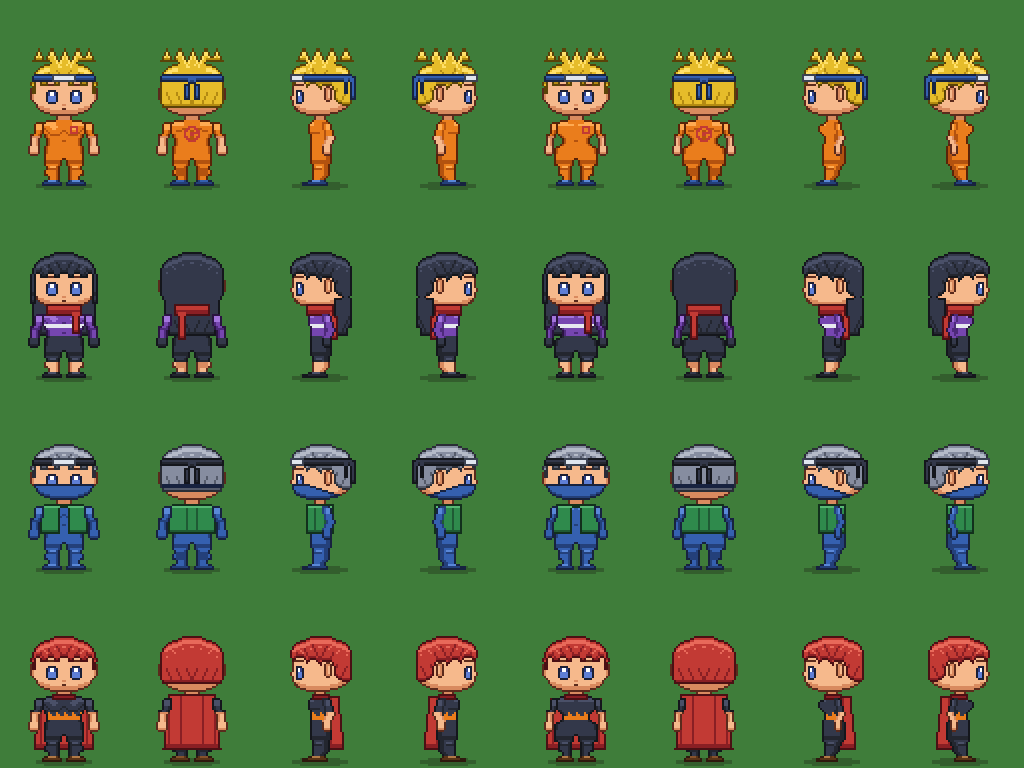
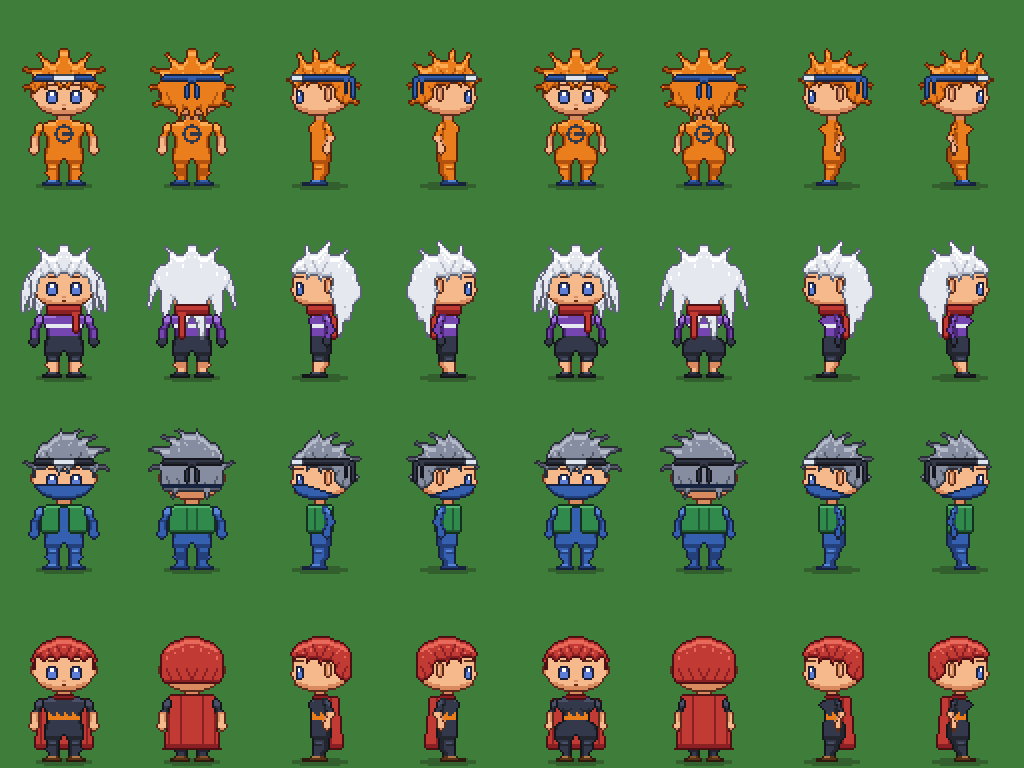
Arte: cabelos de mechas (ouriço, topete torto, juba), ferramenta de mecha e cabelo longo de lado sem quebra
Desenho próprio, inspirado em estilos de anime ninja. Bordas conferidas com o check da skill pxl-pixel-art.

Claude-Session: https://claude.ai/code/session_013vLqrS9CvqGe3bkjQv7HjM

diff --git a/arte/boneco-base.html b/arte/boneco-base.html
@@ -346,6 +346,26 @@
   const KIT = {
     HY, HEAD_HW, HEAD_SIDE, W, H,
     nova: newMask,
+    // Mecha: sai da base (x, y) na direção do ângulo (graus; -90 = para cima, 0 = para a direita), afinando de
+    // `largura` até a ponta em `comprimento` pixels. `curva` entorta a mecha (graus somados ao longo dela).
+    mecha(m, x, y, angulo, comprimento, largura, curva) {
+      const passos = comprimento * 3;
+      // A ponta termina com 2 pixels de espessura (nunca um fiapo de 1 pixel de contorno).
+      for (let i = 0; i <= Math.round(passos * 0.9); i++) {
+        const t = i / passos;
+        const a = ((angulo + (curva || 0) * t) * Math.PI) / 180;
+        const cx = x + Math.cos(a) * comprimento * t; const cy = y + Math.sin(a) * comprimento * t;
+        const r = Math.max((largura / 2) * (1 - t) ** 0.8, 1.6);
+        for (let yy = Math.floor(cy - r); yy <= Math.ceil(cy + r); yy++) for (let xx = Math.floor(cx - r); xx <= Math.ceil(cx + r); xx++) {
+          if (xx >= 0 && xx < W && yy >= 0 && yy < H && (xx - cx) ** 2 + (yy - cy) ** 2 <= r * r + 0.25) m[key(xx, yy)] = 1;
+        }
+      }
+      return m;
+    },
+    // Várias mechas: lista de [x, y, ângulo, comprimento, largura, curva].
+    mechas(m, lista) { lista.forEach((q) => this.mecha(m, ...q)); return m; },
+    // Na vista de frente e de costas, espelha cada mecha (a lista descreve só o lado direito da imagem).
+    mechasSim(m, lista) { lista.forEach(([x, y, a, c, l, cv]) => { this.mecha(m, x, y, a, c, l, cv); this.mecha(m, 63 - x, y, 180 - a, c, l, -(cv || 0)); }); return m; },
     apagar(m, y0, list) { list.forEach((r, i) => { for (let x = r[0]; x <= r[1]; x++) m[key(x, y0 + i)] = 0; }); return m; },
     linhas: rows,                                   // linhas(m, y0, [[x0, x1], ...]): uma faixa por linha
     simetrico: sym,                                 // simetrico(m, y0, [meiaLargura, ...]): frente e costas
@@ -406,11 +426,63 @@
   definirPeca({ id: 'longo', tipo: 'cabelo', modo: 'forma', camada: 'cabelo', parte: PART.cabelo, sombra: SOMBRA_CABELO,
     desenho(view, k) {
       const m = cabeloBase(view, k); const tras = k.nova();
-      if (view === 'lado') for (let y = HY + 22; y <= HY + 40; y++) k.linhas(m, y, [[39, y > HY + 36 ? 45 : 47]]);
+      if (view === 'lado') {
+        // Desce atrás da orelha sem degrau: a borda da frente fica em 39 desde a orelha e a ponta afina no fim.
+        for (let y = HY + 14; y <= HY + 40; y++) {
+          const fim = HY + 40 - y;
+          k.linhas(m, y, [[39 + (fim < 3 ? 3 - fim : 0), 47 - (fim < 4 ? 4 - fim : 0)]]);
+        }
+      }
       else if (view === 'costas') for (let y = HY + 23; y <= HY + 40; y++) k.simetrico(m, y, [y > HY + 37 ? 12 : 14]);
       else {
         for (let y = HY + 10; y <= HY + 40; y++) k.simetrico(tras, y, [y > HY + 37 ? 14 : 16]);    // por trás do corpo
         for (let y = HY + 12; y <= HY + 24; y++) { k.linhas(m, y, [[46, 48]]); k.linhas(m, y, [[15, 17]]); } // mechas
+      }
+      return { frente: m, tras };
+    } });
+  // ---- Cabelos de mechas (inspirados em estilos de anime ninja, desenho próprio). Nomes são códigos provisórios.
+  // Ouriço: curto e cheio de pontas grossas em volta de toda a cabeça, franja em pontas até a sobrancelha.
+  definirPeca({ id: 'ourico', tipo: 'cabelo', modo: 'forma', camada: 'cabelo', parte: PART.cabelo, sombra: SOMBRA_CABELO,
+    desenho(view, k) {
+      const m = cabeloBase(view, k);
+      if (view === 'lado') k.mechas(m, [[24, HY + 2, -115, 7, 6], [30, HY + 1, -95, 8, 7], [36, HY + 2, -70, 8, 7, 10], [42, HY + 5, -40, 8, 7, 10],
+        [45, HY + 11, -10, 7, 6, 15], [45, HY + 17, 20, 6, 5, 10], [20, HY + 6, 160, 5, 5, -20], [22, HY + 9, 120, 4, 4]]);
+      else if (view === 'costas') k.mechasSim(m, [[33, HY + 1, -88, 8, 7], [39, HY + 2, -60, 8, 7, 8], [44, HY + 6, -30, 8, 7, 10], [46, HY + 12, -5, 7, 6, 10],
+        [45, HY + 18, 30, 6, 5], [37, HY + 22, 80, 5, 5], [32, HY + 22, 95, 5, 5]]);
+      else k.mechasSim(m, [[33, HY + 1, -88, 8, 7], [39, HY + 2, -60, 8, 7, 8], [44, HY + 6, -30, 8, 7, 10], [46, HY + 12, -5, 6, 6, 10],
+        [34, HY + 7, 95, 5, 5], [40, HY + 7, 80, 5, 5]]);
+      return { frente: m };
+    } });
+  // Topete torto: alto e jogado para um lado, como se o vento empurrasse; uma mecha cai sobre a testa.
+  definirPeca({ id: 'topete_torto', tipo: 'cabelo', modo: 'forma', camada: 'cabelo', parte: PART.cabelo, sombra: SOMBRA_CABELO,
+    desenho(view, k) {
+      const m = cabeloBase(view, k);
+      const dir = view === 'costas' ? -1 : 1;                          // de costas o lado inverte
+      const L = (x, y, a, c, l, cv) => [32 + dir * (x - 32), y, dir === 1 ? a : 180 - a, c, l, dir === 1 ? cv : -(cv || 0)];
+      if (view === 'lado') k.mechas(m, [[26, HY + 2, -80, 11, 8, 25], [32, HY + 1, -60, 12, 8, 20], [38, HY + 3, -40, 11, 8, 15], [43, HY + 7, -15, 9, 7, 10],
+        [45, HY + 14, 15, 6, 5], [21, HY + 6, 140, 6, 5, -10]]);
+      else {
+        k.mechas(m, [L(20, HY + 5, -110, 7, 7, 30), L(25, HY + 1, -80, 11, 8, 25), L(31, HY, -62, 13, 9, 20), L(37, HY + 1, -45, 13, 9, 15),
+          L(43, HY + 4, -25, 11, 8, 10), L(46, HY + 10, -5, 8, 6, 10), L(17, HY + 10, 200, 5, 5)]);
+        if (view === 'frente') k.mechas(m, [L(38, HY + 7, 125, 7, 5, 10), L(31, HY + 8, 110, 5, 4)]);   // mecha sobre a testa
+        else k.mechas(m, [L(40, HY + 20, 70, 6, 6), L(26, HY + 20, 100, 6, 6)]);
+      }
+      return { frente: m };
+    } });
+  // Juba: volume revolto em cima e uma juba longa e grossa descendo pelas costas até a cintura, com pontas soltas.
+  definirPeca({ id: 'juba', tipo: 'cabelo', modo: 'forma', camada: 'cabelo', parte: PART.cabelo, sombra: SOMBRA_CABELO,
+    desenho(view, k) {
+      const m = cabeloBase(view, k); const tras = k.nova();
+      if (view === 'lado') {
+        k.mechas(m, [[26, HY + 1, -100, 6, 6], [33, HY, -75, 7, 7, 10], [40, HY + 3, -45, 7, 7]]);
+        // A juba sai da nuca e desce pelas costas em mechas grossas, cada uma terminando em ponta.
+        k.mechas(m, [[44, HY + 8, 50, 14, 11, 25], [44, HY + 14, 70, 20, 11, 15], [41, HY + 18, 82, 24, 10, 8], [46, HY + 12, 30, 12, 8, 40]]);
+      } else if (view === 'costas') {
+        k.mechasSim(m, [[33, HY + 1, -88, 6, 6], [40, HY + 2, -55, 7, 7]]);
+        k.mechasSim(m, [[34, HY + 14, 88, 30, 13, -4], [42, HY + 12, 75, 27, 11, 10], [46, HY + 9, 50, 20, 9, 20]]);
+      } else {
+        k.mechasSim(m, [[33, HY + 1, -88, 6, 6], [40, HY + 2, -55, 7, 7], [46, HY + 11, 85, 18, 6, -5]]);   // mechas ao lado do rosto
+        k.mechasSim(tras, [[38, HY + 10, 60, 24, 14, 15], [44, HY + 10, 40, 22, 11, 30]]);                  // juba atrás do corpo
       }
       return { frente: m, tras };
     } });

diff --git a/arte/boneco-base/boneco-base.js b/arte/boneco-base/boneco-base.js
@@ -286,6 +286,26 @@
   const KIT = {
     HY, HEAD_HW, HEAD_SIDE, W, H,
     nova: newMask,
+    // Mecha: sai da base (x, y) na direção do ângulo (graus; -90 = para cima, 0 = para a direita), afinando de
+    // `largura` até a ponta em `comprimento` pixels. `curva` entorta a mecha (graus somados ao longo dela).
+    mecha(m, x, y, angulo, comprimento, largura, curva) {
+      const passos = comprimento * 3;
+      // A ponta termina com 2 pixels de espessura (nunca um fiapo de 1 pixel de contorno).
+      for (let i = 0; i <= Math.round(passos * 0.9); i++) {
+        const t = i / passos;
+        const a = ((angulo + (curva || 0) * t) * Math.PI) / 180;
+        const cx = x + Math.cos(a) * comprimento * t; const cy = y + Math.sin(a) * comprimento * t;
+        const r = Math.max((largura / 2) * (1 - t) ** 0.8, 1.6);
+        for (let yy = Math.floor(cy - r); yy <= Math.ceil(cy + r); yy++) for (let xx = Math.floor(cx - r); xx <= Math.ceil(cx + r); xx++) {
+          if (xx >= 0 && xx < W && yy >= 0 && yy < H && (xx - cx) ** 2 + (yy - cy) ** 2 <= r * r + 0.25) m[key(xx, yy)] = 1;
+        }
+      }
+      return m;
+    },
+    // Várias mechas: lista de [x, y, ângulo, comprimento, largura, curva].
+    mechas(m, lista) { lista.forEach((q) => this.mecha(m, ...q)); return m; },
+    // Na vista de frente e de costas, espelha cada mecha (a lista descreve só o lado direito da imagem).
+    mechasSim(m, lista) { lista.forEach(([x, y, a, c, l, cv]) => { this.mecha(m, x, y, a, c, l, cv); this.mecha(m, 63 - x, y, 180 - a, c, l, -(cv || 0)); }); return m; },
     apagar(m, y0, list) { list.forEach((r, i) => { for (let x = r[0]; x <= r[1]; x++) m[key(x, y0 + i)] = 0; }); return m; },
     linhas: rows,                                   // linhas(m, y0, [[x0, x1], ...]): uma faixa por linha
     simetrico: sym,                                 // simetrico(m, y0, [meiaLargura, ...]): frente e costas
@@ -346,11 +366,63 @@
   definirPeca({ id: 'longo', tipo: 'cabelo', modo: 'forma', camada: 'cabelo', parte: PART.cabelo, sombra: SOMBRA_CABELO,
     desenho(view, k) {
       const m = cabeloBase(view, k); const tras = k.nova();
-      if (view === 'lado') for (let y = HY + 22; y <= HY + 40; y++) k.linhas(m, y, [[39, y > HY + 36 ? 45 : 47]]);
+      if (view === 'lado') {
+        // Desce atrás da orelha sem degrau: a borda da frente fica em 39 desde a orelha e a ponta afina no fim.
+        for (let y = HY + 14; y <= HY + 40; y++) {
+          const fim = HY + 40 - y;
+          k.linhas(m, y, [[39 + (fim < 3 ? 3 - fim : 0), 47 - (fim < 4 ? 4 - fim : 0)]]);
+        }
+      }
       else if (view === 'costas') for (let y = HY + 23; y <= HY + 40; y++) k.simetrico(m, y, [y > HY + 37 ? 12 : 14]);
       else {
         for (let y = HY + 10; y <= HY + 40; y++) k.simetrico(tras, y, [y > HY + 37 ? 14 : 16]);    // por trás do corpo
         for (let y = HY + 12; y <= HY + 24; y++) { k.linhas(m, y, [[46, 48]]); k.linhas(m, y, [[15, 17]]); } // mechas
+      }
+      return { frente: m, tras };
+    } });
+  // ---- Cabelos de mechas (inspirados em estilos de anime ninja, desenho próprio). Nomes são códigos provisórios.
+  // Ouriço: curto e cheio de pontas grossas em volta de toda a cabeça, franja em pontas até a sobrancelha.
+  definirPeca({ id: 'ourico', tipo: 'cabelo', modo: 'forma', camada: 'cabelo', parte: PART.cabelo, sombra: SOMBRA_CABELO,
+    desenho(view, k) {
+      const m = cabeloBase(view, k);
+      if (view === 'lado') k.mechas(m, [[24, HY + 2, -115, 7, 6], [30, HY + 1, -95, 8, 7], [36, HY + 2, -70, 8, 7, 10], [42, HY + 5, -40, 8, 7, 10],
+        [45, HY + 11, -10, 7, 6, 15], [45, HY + 17, 20, 6, 5, 10], [20, HY + 6, 160, 5, 5, -20], [22, HY + 9, 120, 4, 4]]);
+      else if (view === 'costas') k.mechasSim(m, [[33, HY + 1, -88, 8, 7], [39, HY + 2, -60, 8, 7, 8], [44, HY + 6, -30, 8, 7, 10], [46, HY + 12, -5, 7, 6, 10],
+        [45, HY + 18, 30, 6, 5], [37, HY + 22, 80, 5, 5], [32, HY + 22, 95, 5, 5]]);
+      else k.mechasSim(m, [[33, HY + 1, -88, 8, 7], [39, HY + 2, -60, 8, 7, 8], [44, HY + 6, -30, 8, 7, 10], [46, HY + 12, -5, 6, 6, 10],
+        [34, HY + 7, 95, 5, 5], [40, HY + 7, 80, 5, 5]]);
+      return { frente: m };
+    } });
+  // Topete torto: alto e jogado para um lado, como se o vento empurrasse; uma mecha cai sobre a testa.
+  definirPeca({ id: 'topete_torto', tipo: 'cabelo', modo: 'forma', camada: 'cabelo', parte: PART.cabelo, sombra: SOMBRA_CABELO,
+    desenho(view, k) {
+      const m = cabeloBase(view, k);
+      const dir = view === 'costas' ? -1 : 1;                          // de costas o lado inverte
+      const L = (x, y, a, c, l, cv) => [32 + dir * (x - 32), y, dir === 1 ? a : 180 - a, c, l, dir === 1 ? cv : -(cv || 0)];
+      if (view === 'lado') k.mechas(m, [[26, HY + 2, -80, 11, 8, 25], [32, HY + 1, -60, 12, 8, 20], [38, HY + 3, -40, 11, 8, 15], [43, HY + 7, -15, 9, 7, 10],
+        [45, HY + 14, 15, 6, 5], [21, HY + 6, 140, 6, 5, -10]]);
+      else {
+        k.mechas(m, [L(20, HY + 5, -110, 7, 7, 30), L(25, HY + 1, -80, 11, 8, 25), L(31, HY, -62, 13, 9, 20), L(37, HY + 1, -45, 13, 9, 15),
+          L(43, HY + 4, -25, 11, 8, 10), L(46, HY + 10, -5, 8, 6, 10), L(17, HY + 10, 200, 5, 5)]);
+        if (view === 'frente') k.mechas(m, [L(38, HY + 7, 125, 7, 5, 10), L(31, HY + 8, 110, 5, 4)]);   // mecha sobre a testa
+        else k.mechas(m, [L(40, HY + 20, 70, 6, 6), L(26, HY + 20, 100, 6, 6)]);
+      }
+      return { frente: m };
+    } });
+  // Juba: volume revolto em cima e uma juba longa e grossa descendo pelas costas até a cintura, com pontas soltas.
+  definirPeca({ id: 'juba', tipo: 'cabelo', modo: 'forma', camada: 'cabelo', parte: PART.cabelo, sombra: SOMBRA_CABELO,
+    desenho(view, k) {
+      const m = cabeloBase(view, k); const tras = k.nova();
+      if (view === 'lado') {
+        k.mechas(m, [[26, HY + 1, -100, 6, 6], [33, HY, -75, 7, 7, 10], [40, HY + 3, -45, 7, 7]]);
+        // A juba sai da nuca e desce pelas costas em mechas grossas, cada uma terminando em ponta.
+        k.mechas(m, [[44, HY + 8, 50, 14, 11, 25], [44, HY + 14, 70, 20, 11, 15], [41, HY + 18, 82, 24, 10, 8], [46, HY + 12, 30, 12, 8, 40]]);
+      } else if (view === 'costas') {
+        k.mechasSim(m, [[33, HY + 1, -88, 6, 6], [40, HY + 2, -55, 7, 7]]);
+        k.mechasSim(m, [[34, HY + 14, 88, 30, 13, -4], [42, HY + 12, 75, 27, 11, 10], [46, HY + 9, 50, 20, 9, 20]]);
+      } else {
+        k.mechasSim(m, [[33, HY + 1, -88, 6, 6], [40, HY + 2, -55, 7, 7], [46, HY + 11, 85, 18, 6, -5]]);   // mechas ao lado do rosto
+        k.mechasSim(tras, [[38, HY + 10, 60, 24, 14, 15], [44, HY + 10, 40, 22, 11, 30]]);                  // juba atrás do corpo
       }
       return { frente: m, tras };
     } });

diff --git a/arte/boneco-base/PADRAO.md b/arte/boneco-base/PADRAO.md
@@ -58,6 +58,9 @@ Ferramentas (`k`):
 | `k.linhas(m, y0, [[x0, x1], ...])` | Uma faixa por linha, a partir de `y0` |
 | `k.simetrico(m, y0, [meiaLargura, ...])` | Linhas centradas no eixo (frente e costas) |
 | `k.cabeca(m, view, i, folga)` | Linha `i` da cabeça (0 a 26; -1 fica acima do topo), com `folga` pixels a mais |
+| `k.mecha(m, x, y, ângulo, comprimento, largura, curva)` | Mecha pontuda: sai de (x, y), afina até a ponta (que termina com 2 pixels) e pode entortar |
+| `k.mechas(m, lista)` / `k.mechasSim(m, lista)` | Várias mechas; `Sim` espelha cada uma (frente e costas) |
+| `k.apagar(m, y0, [[x0, x1], ...])` | Tira pixels (abrir o rosto, a frente de um colete) |
 | `k.HY`, `k.HEAD_HW`, `k.HEAD_SIDE` | Topo da cabeça e o contorno dela de frente e de lado |
 
 Uma peça de forma pode ficar presa à **cabeça** (tipos `cabelo`, `bandana`, `acessorio`) ou ao **tronco** (tipo `tronco`,
@@ -96,3 +99,9 @@ Peito e costas vão de y 61 a 71; o meio do tronco é o eixo entre x=31 e x=32. 
 - Peças do tronco e estampas somem no quadro deitado da queda, e de lado andam com o tronco sem acompanhar a inclinação
   linha a linha.
 - Estampa em mais de uma cor.
+
+## Conferência com a skill pxl-pixel-art
+
+Para olhar bordas com outro olho: exporte a peça como grade para um `.px.js` e rode
+`node ~/.claude/skills/pxl-pixel-art/bin/pxl.js check arquivo.px.js --edges`. Ele aponta quinas em L em linhas de 1 pixel,
+degraus fora de ordem e pontas soltas. São avisos para olhar, não erros.
